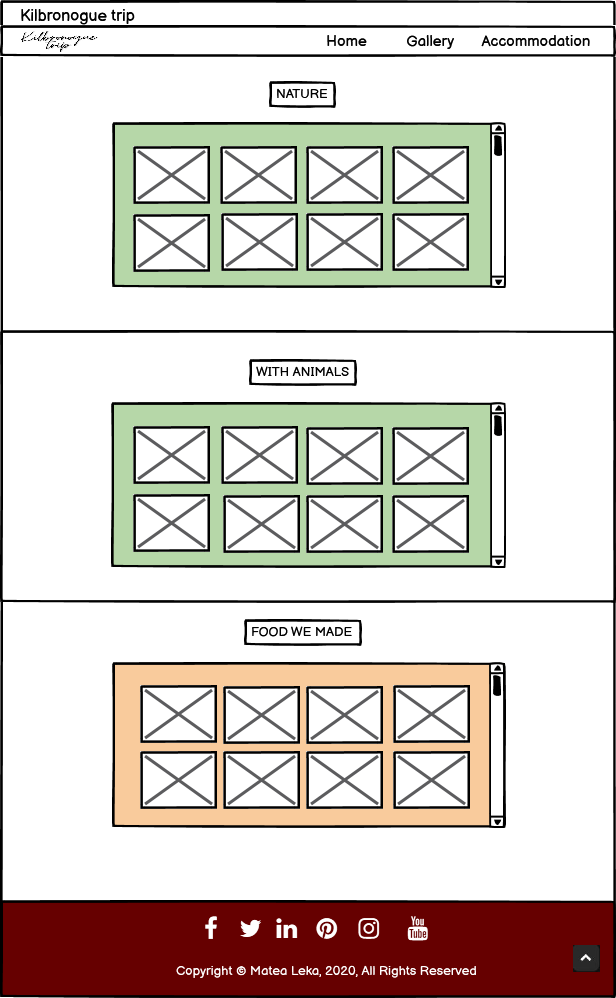
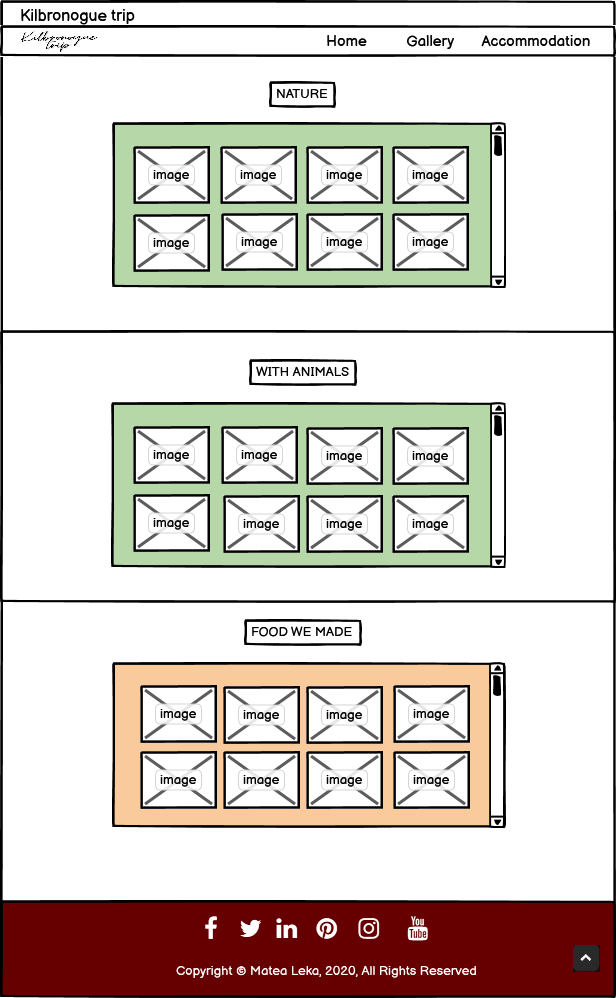
Implement wireframe pictures to README.md file

diff --git a/assets/wireframes/Wireframe_large_screen.html b/assets/wireframes/Wireframe_large_screen.html
@@ -7,30 +7,30 @@
     <link rel="stylesheet" href="https://maxcdn.bootstrapcdn.com/font-awesome/4.7.0/css/font-awesome.min.css" type="text/css" />
     <link href="https://fonts.googleapis.com/css2?family=Amatic+SC:wght@700&family=Roboto:wght@300;400&display=swap" rel="stylesheet">
     <link rel="stylesheet" href="assets/css/style.css" type="text/css">
-    <title>Wire frame-large</title>
+    <title>Wireframe-large</title>
 </head>
 <body>
 
 <div class="container-fluid">
-    <div class="row justify-content-center align-items-center">
-        <div class="col-12">
-            <h1>WIRE FRAMES - DESKTOP</h1>
+    <div class="row justify-content-between align-items-center">
+        <div class="col-12 wireframe">
+            <h1>LARGE SIZE wireframe</h1>
         </div> <br> <br> <hr>
-        <div class="col-12">
-            <h3>"Home" page desktop wireframe</h3>
-            <img class="img-fluid" src="Home_desktop.png" alt="Wire frame - Home page for desktop">
+        <div class="col-12 wireframe">
+            <h3><em>Home</em> page</h3>
+            <img class="img-fluid" src="Home_desktop.png" alt="Wire frame - Home page, large size">
         </div>
         <br>
         <br>
-        <div class="col-12">
-            <h3>"Gallery" page desktop wireframe</h3>
-            <img class="img-fluid" src="Gallery_desktop.png" alt="Wire frame - Gallery page for desktop">
+        <div class="col-12 wireframe">
+            <h3><em>Gallery</em> page</h3>
+            <img class="img-fluid" src="Gallery_desktop.png" alt="Wire frame - Gallery page, large size">
         </div>
         <br>
         <br>
-        <div class="col-12">
-            <h3>"Accommodation" page desktop wireframe</h3>
-            <img class="img-fluid" src="Accommodation_desktop.png" alt="Wire frame - Accommodation page for desktop">
+        <div class="col-12 wireframe">
+            <h3><em>Accommodation</em> page</h3>
+            <img class="img-fluid" src="Accommodation_desktop.png" alt="Wire frame - Accommodation page, large size">
         </div>
     </div>
 </div>

diff --git a/assets/wireframes/Wireframe_extra_small_screen.html b/assets/wireframes/Wireframe_extra_small_screen.html
@@ -1,0 +1,38 @@
+<html lang="en">
+<head>
+    <meta charset="UTF-8">
+    <meta name="viewport" content="width=device-width, initial-scale=1.0">
+    <meta name="description" content="Kilbronogue trip">
+    <link rel="stylesheet" href="https://cdn.jsdelivr.net/npm/bootstrap@4.5.3/dist/css/bootstrap.min.css">
+    <link rel="stylesheet" href="https://maxcdn.bootstrapcdn.com/font-awesome/4.7.0/css/font-awesome.min.css" type="text/css" />
+    <link href="https://fonts.googleapis.com/css2?family=Amatic+SC:wght@700&family=Roboto:wght@300;400&display=swap" rel="stylesheet">
+    <link rel="stylesheet" href="assets/css/style.css" type="text/css">
+    <title>Wireframe-extra small (phone)</title>
+</head>
+<body>
+
+<div class="container-fluid">
+    <div class="row justify-content-between align-items-center">
+        <div class="col-12 wireframe">
+            <h1>EXTRA-SMALL (/PHONE) SIZE wireframe </h1>
+        </div> <br> <br> <hr>
+        <div class="col-12 wireframe">
+            <h3><em>Home</em> page</h3>
+            <img class="img-fluid" src="Home_phone.png" alt="Wire frame - Home page, extra-small size">
+        </div>
+        <br>
+        <br>
+        <div class="col-12 wireframe">
+            <h3><em>Gallery</em> page</h3>
+            <img class="img-fluid" src="Gallery_phone.png" alt="Wire frame - Gallery page, extra-small size">
+        </div>
+        <br>
+        <br>
+        <div class="col-12 wireframe">
+            <h3><em>Accommodation</em> page</h3>
+            <img class="img-fluid" src="Accommodation_phone.png" alt="Wire frame - Accommodation page, extra-small size">
+        </div>
+    </div>
+</div>
+</body>
+</html>

diff --git a/assets/wireframes/Wireframe_medium_screen.html b/assets/wireframes/Wireframe_medium_screen.html
@@ -1,0 +1,34 @@
+<html lang="en">
+<head>
+    <meta charset="UTF-8">
+    <meta name="viewport" content="width=device-width, initial-scale=1.0">
+    <meta name="description" content="Kilbronogue trip">
+    <link rel="stylesheet" href="https://cdn.jsdelivr.net/npm/bootstrap@4.5.3/dist/css/bootstrap.min.css">
+    <link rel="stylesheet" href="https://maxcdn.bootstrapcdn.com/font-awesome/4.7.0/css/font-awesome.min.css" type="text/css" />
+    <link href="https://fonts.googleapis.com/css2?family=Amatic+SC:wght@700&family=Roboto:wght@300;400&display=swap" rel="stylesheet">
+    <link rel="stylesheet" href="assets/css/style.css" type="text/css">
+    <title>Wireframe-medium</title>
+</head>
+<body>
+
+<div class="container-fluid">
+    <div class="row justify-content-between align-items-center">
+        <div class="col-12 wireframe">
+            <h1>MEDIUM SIZE wireframe</h1>
+        </div>
+        <div class="col-12 wireframe">
+            <h3><em>Home</em> page</h3>
+            <img class="img-fluid" src="Home_tablet.png" alt="Wire frame - Home page, medium size">
+        </div>
+        <div class="col-12 wireframe">
+            <h3><em>Gallery</em> page</h3>
+            <img class="img-fluid" src="Gallery_tablet.png" alt="Wire frame - Gallery page, medium size">
+        </div>
+        <div class="col-12 wireframe">
+            <h3><em>Accommodation</em> page</h3>
+            <img class="img-fluid" src="Accommodation_tablet.png" alt="Wire frame - Accommodation page, medium size">
+        </div>
+    </div>
+</div>
+</body>
+</html>

diff --git a/assets/css/style.css b/assets/css/style.css
@@ -471,6 +471,31 @@ blockquote p {
 
 
 
+
+
+.wireframe{
+    padding-top: 40px;
+    padding-bottom: 40px;
+}
+
+
+
+
+
+
+
+
+
+
+
+
+
+
+
+
+
+
+
 /* ------------------------MEDIA QUERIES----------------- */
 
 /* Large devices (desktops, 992px and up) */
@@ -825,8 +850,6 @@ blockquote p {
         padding-bottom: 20px;
         text-align: center;
     }
-
-  
 
 }
 

diff --git a/README.md b/README.md
@@ -106,12 +106,11 @@ attract people in coming to Ireland and visit West Cork.
 
 ### Skeleton
 #### Wireframe
-[LARGE SIZE wireframe](https://gillem.github.io/Kilbronogue_trip/assets/wireframes/Wireframe-large-screen.html)
+[LARGE SIZE wireframe](https://gillem.github.io/Kilbronogue_trip/assets/wireframes/Wireframe_large_screen.html)
 
-[MEDIUM SIZE wireframe](still_in_progress) is still in progress
+[MEDIUM SIZE wireframe](https://gillem.github.io/Kilbronogue_trip/assets/wireframes/Wireframe_medium_screen.html)
 
-[EXTRA-SMALL wireframe](still_in_progress) is still in progress
-
+[EXTRA-SMALL wireframe](https://gillem.github.io/Kilbronogue_trip/assets/wireframes/Wireframe_extra_small_screen.html)
 
 ### Surface
 
